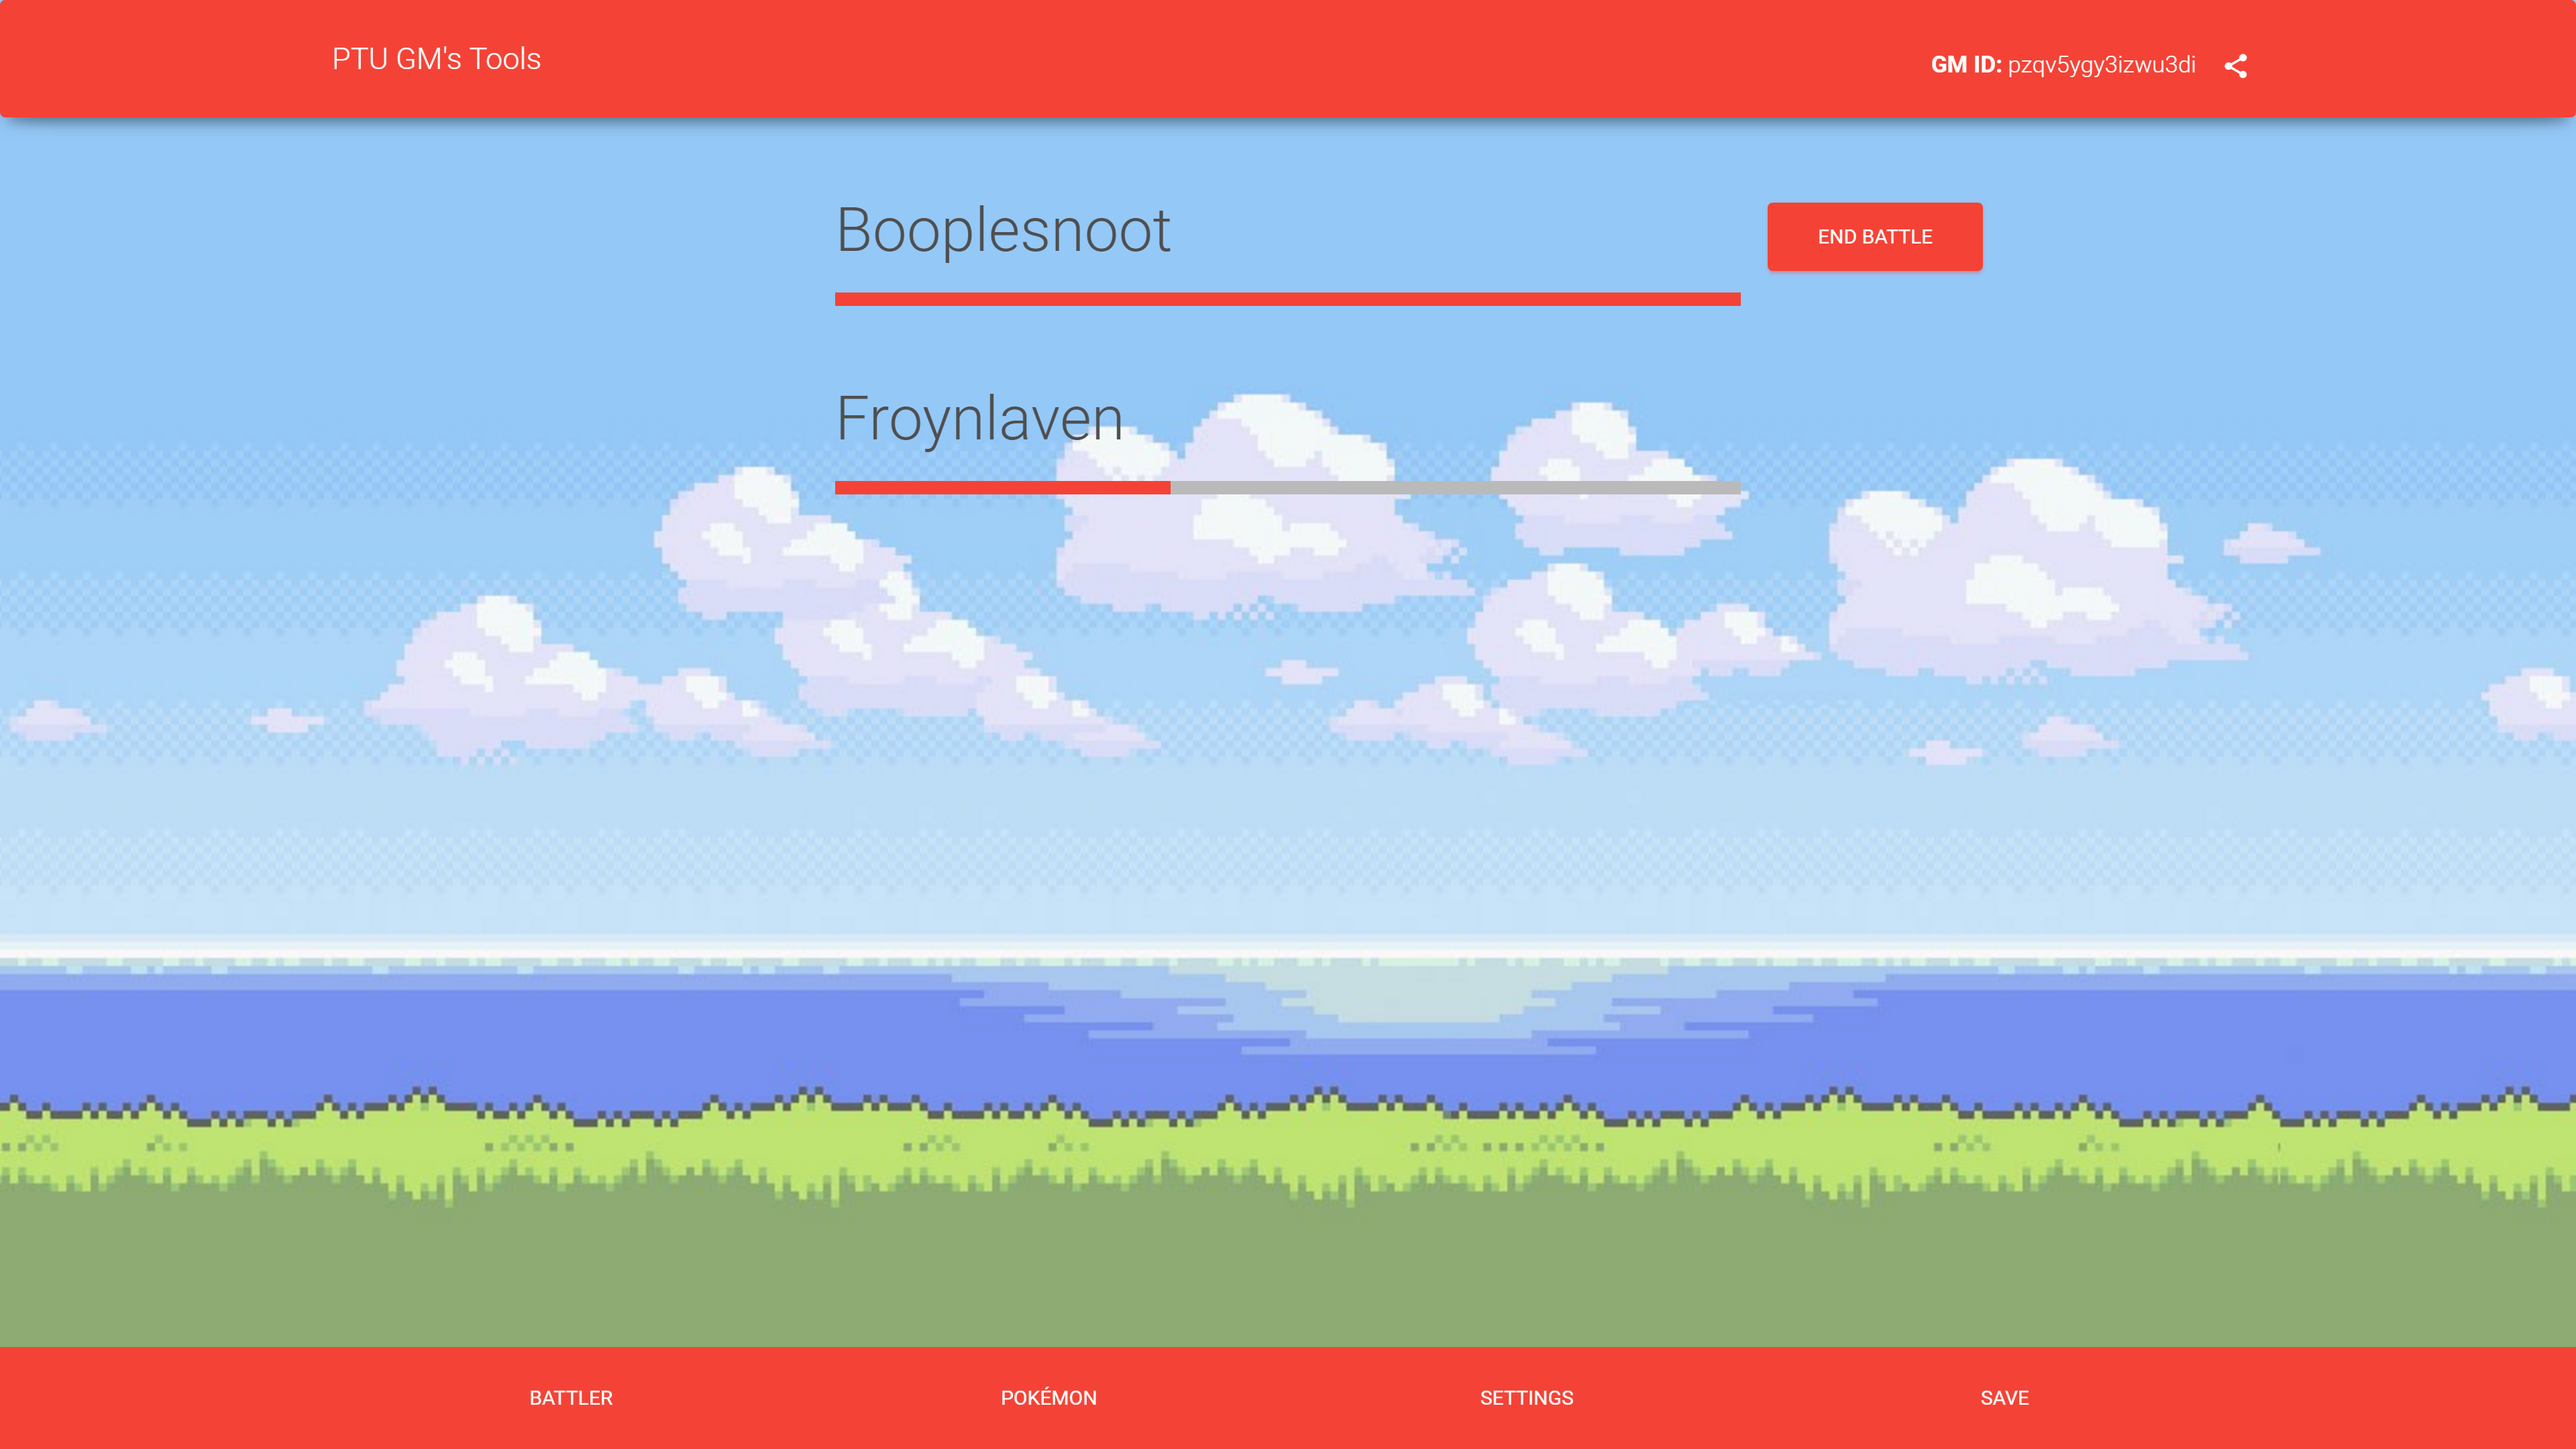
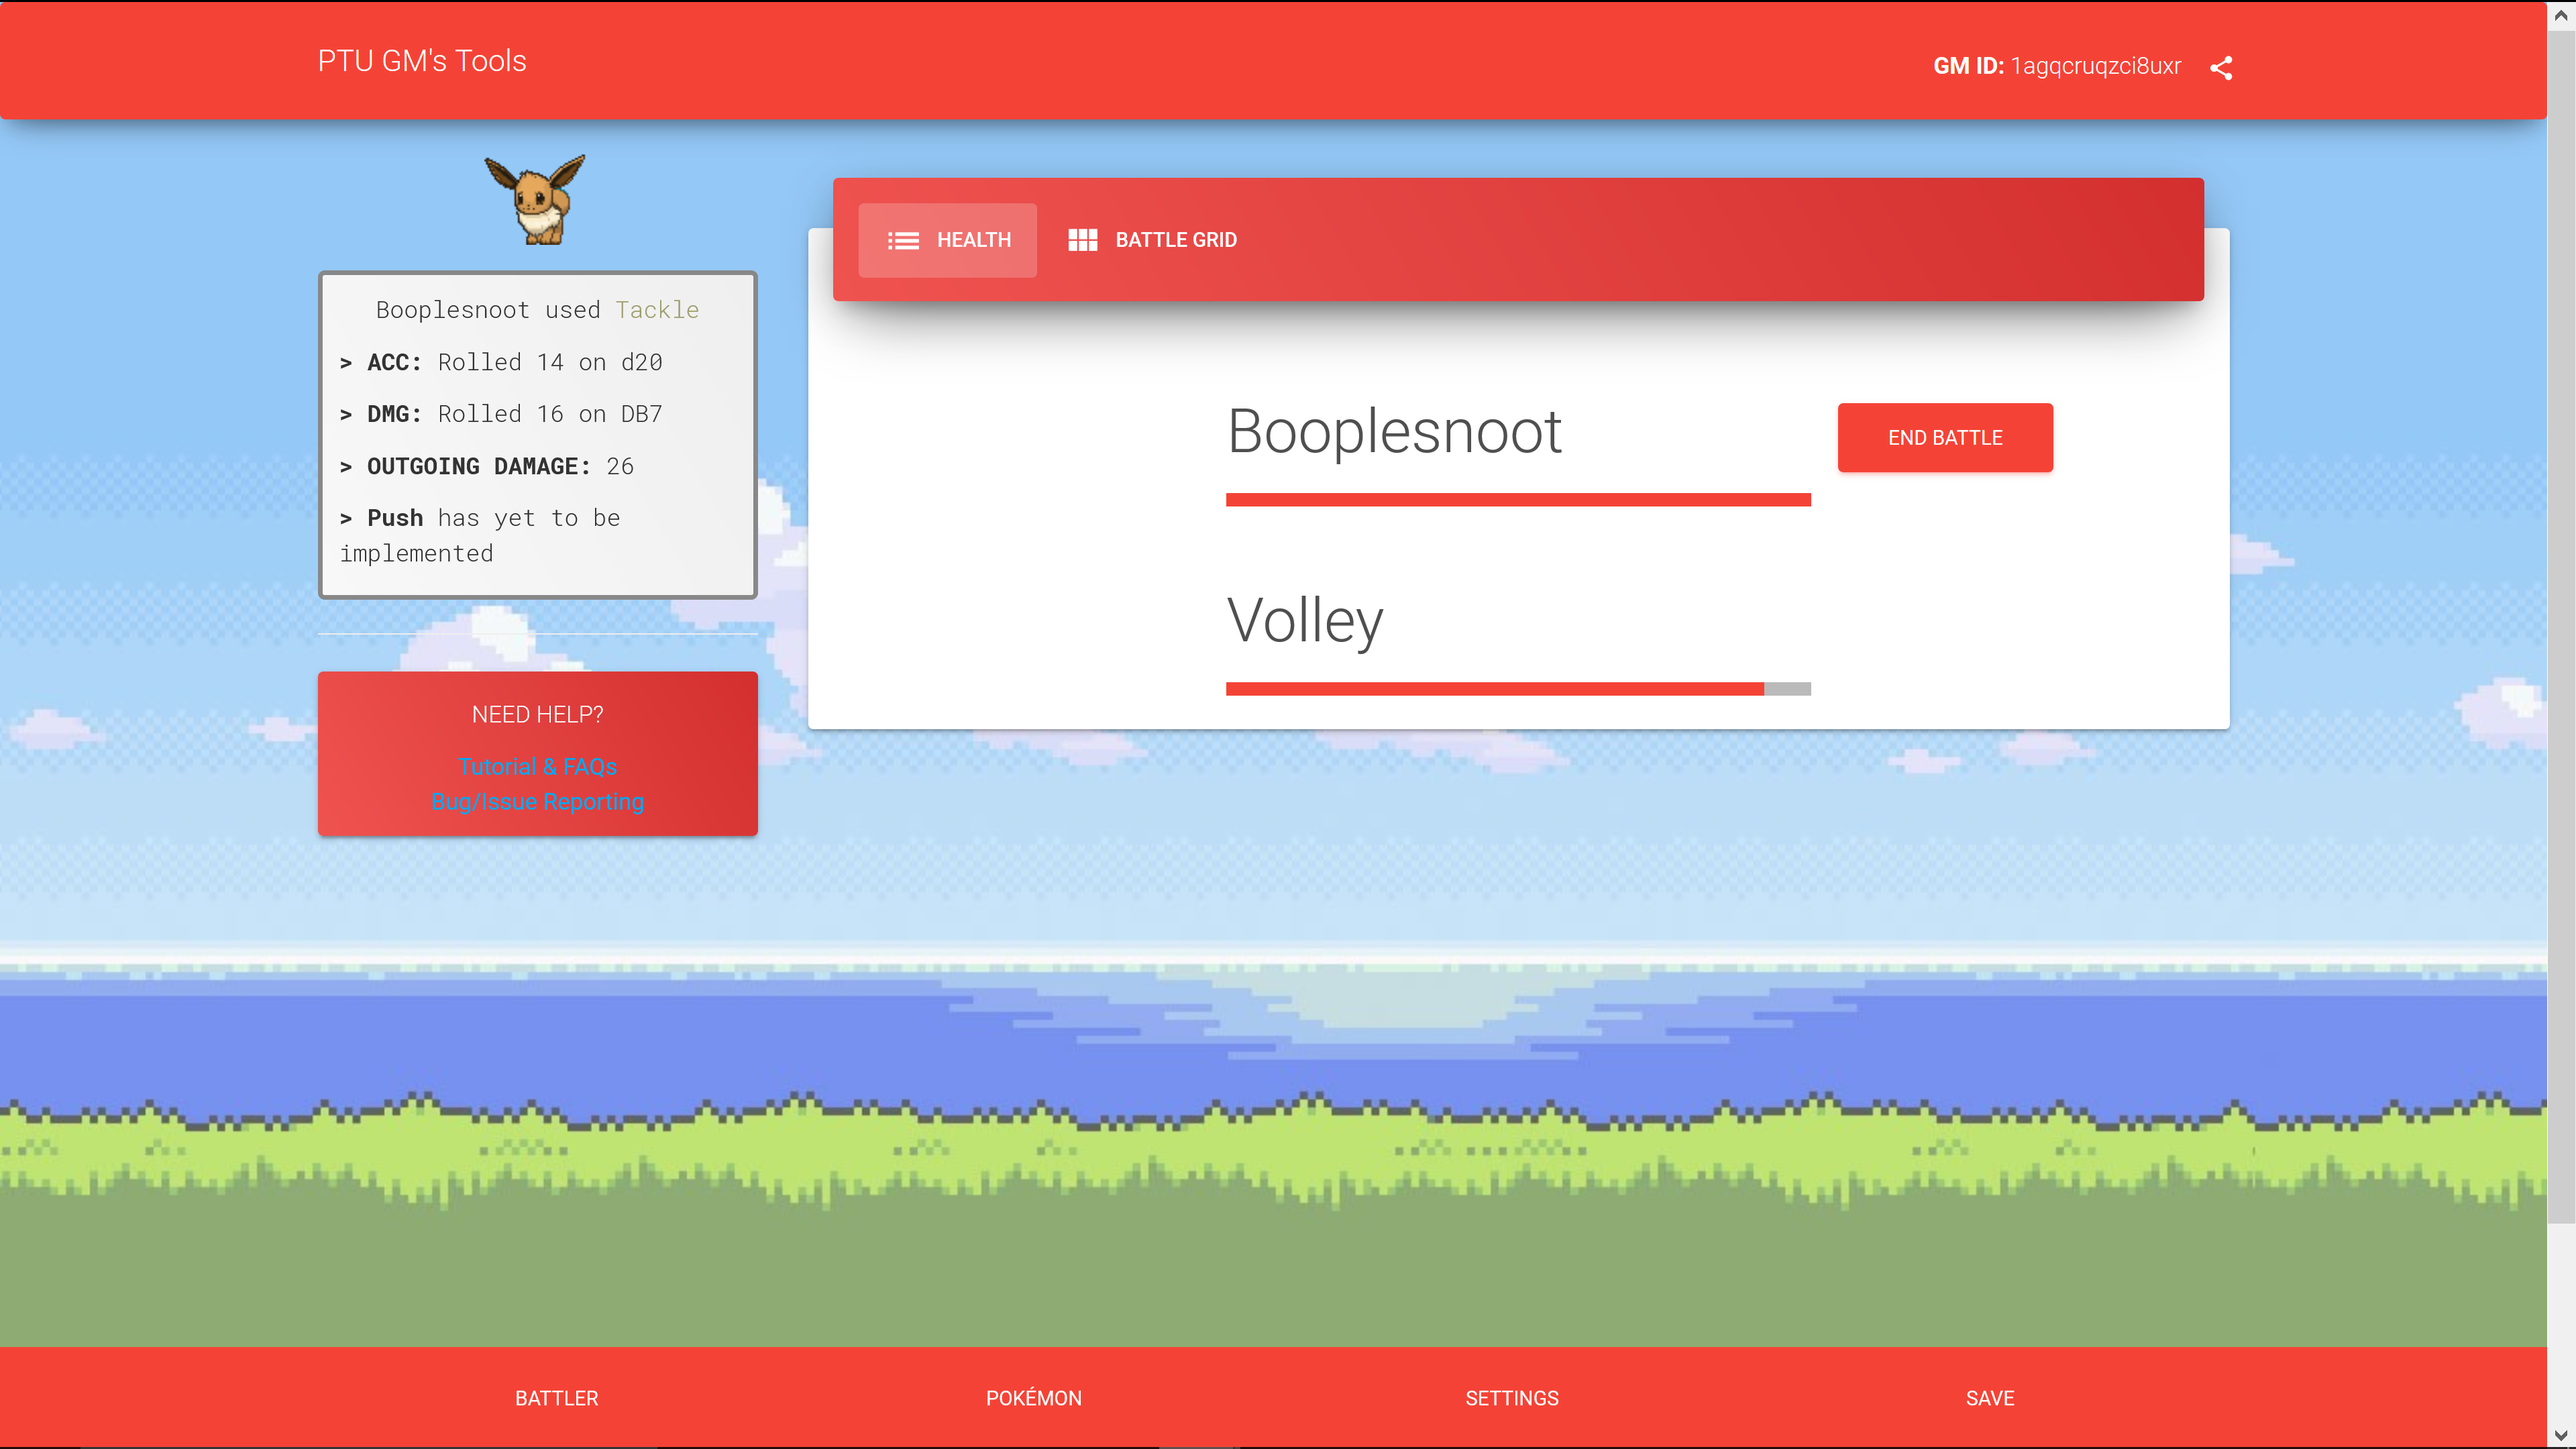
Visual tweaks to battle sidebar alerts

diff --git a/host.php b/host.php
@@ -42,7 +42,7 @@
             color: white;
         }
 
-        #battle-actions {
+        #battle-message {
             text-shadow: #444 0px 0px 8px;
         }
 
@@ -54,7 +54,7 @@
 
         #battle-actions .battle-dialog {
             font-family: "Roboto Mono", "Roboto", "Helvetica", "Arial", sans-serif;
-            color: #FFF;
+            color: #333;
             margin-top: 15px;
             padding: 10px 10px 5px 10px;
             background-color: rgba(0, 0, 0, 0);
@@ -70,6 +70,13 @@
 
         #battle-actions h2, #battle-actions h3, #battle-actions h4, #battle-actions h5, #battle-actions h6 {
             margin-top: 5px;
+        }
+
+        #battle-help {
+            background: linear-gradient(60deg, #ef5350, #d32f2f);
+            font-weight: 400;
+            color: #FFF;
+            padding: 10px;
         }
 
         .battle-slider {
@@ -302,11 +309,11 @@
                     <h4>We're glad you're here!</h4>
                 </div>
                 <hr/>
-                <div id="battle-help" class="text-center">
+                <div id="battle-help card" class="text-center">
                     <h6>NEED HELP?</h6>
-                    <a class="text-danger" href="https://github.com/absorr/ptu-toolkit/wiki/Tutorial-&-FAQ" target="_blank">Tutorial &amp; FAQs</a>
+                    <a class="text-info" href="https://github.com/absorr/ptu-toolkit/wiki/Tutorial-&-FAQ" target="_blank">Tutorial &amp; FAQs</a>
                     <br/>
-                    <a class="text-danger" href="https://github.com/absorr/ptu-toolkit/issues" target="_blank">Bug/Issue Reporting</a>
+                    <a class="text-info" href="https://github.com/absorr/ptu-toolkit/issues" target="_blank">Bug/Issue Reporting</a>
                 </div>
             </div>
             <div class="col-sm-9">
